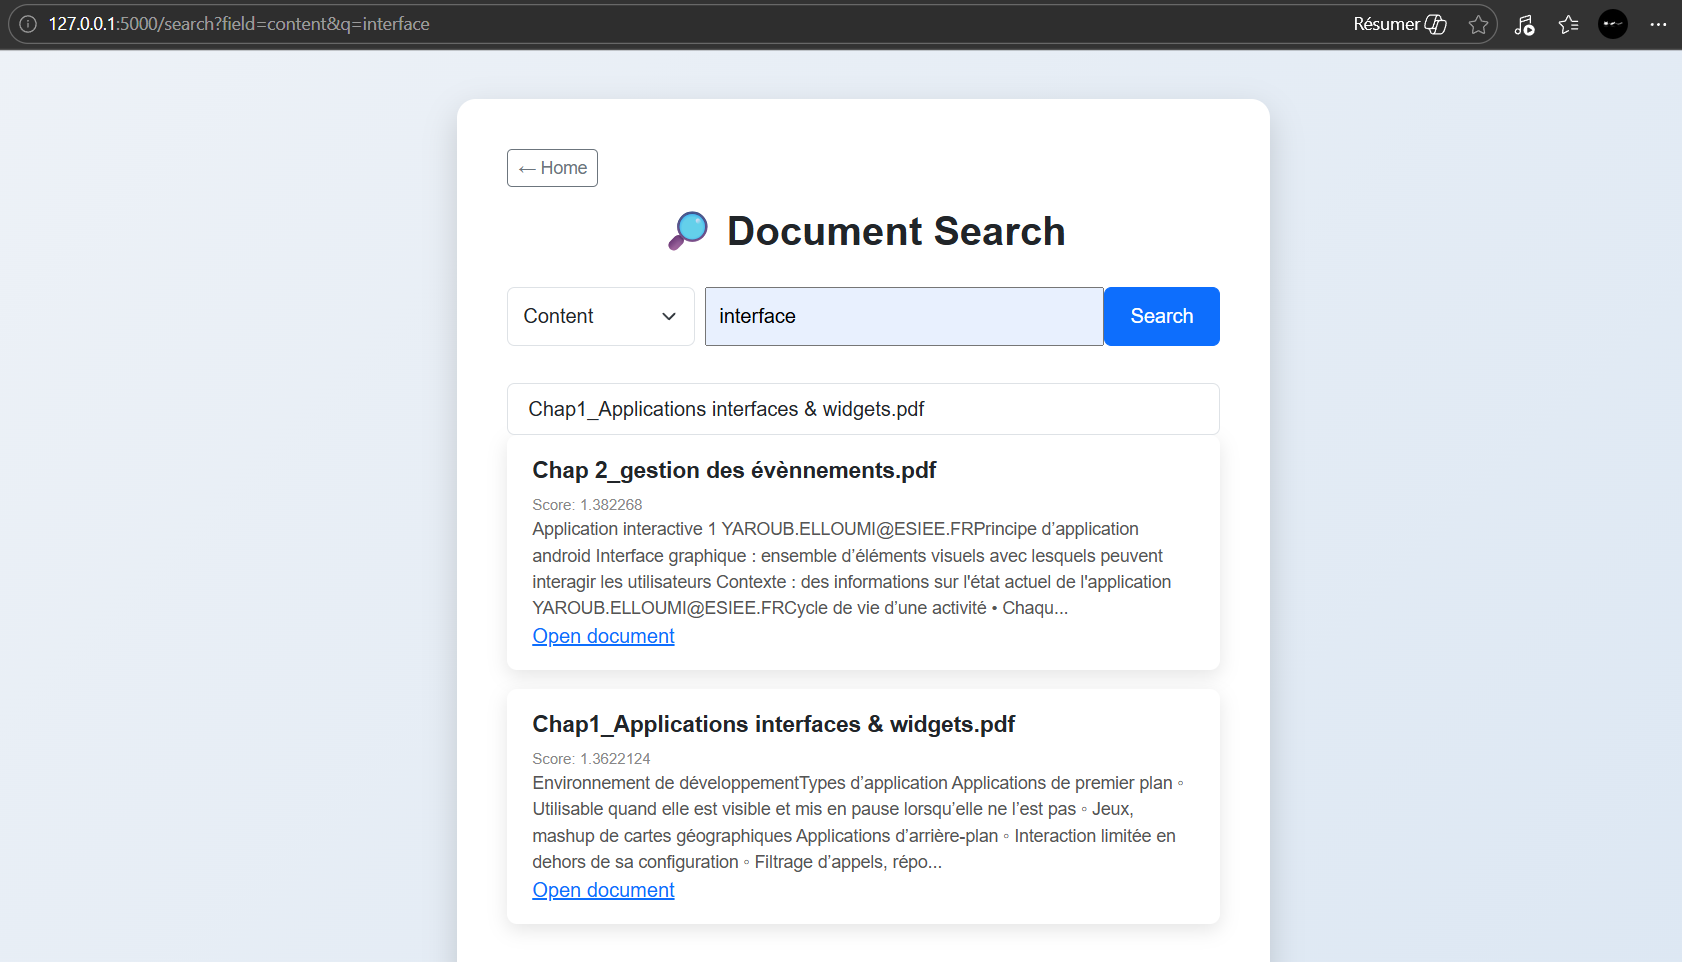
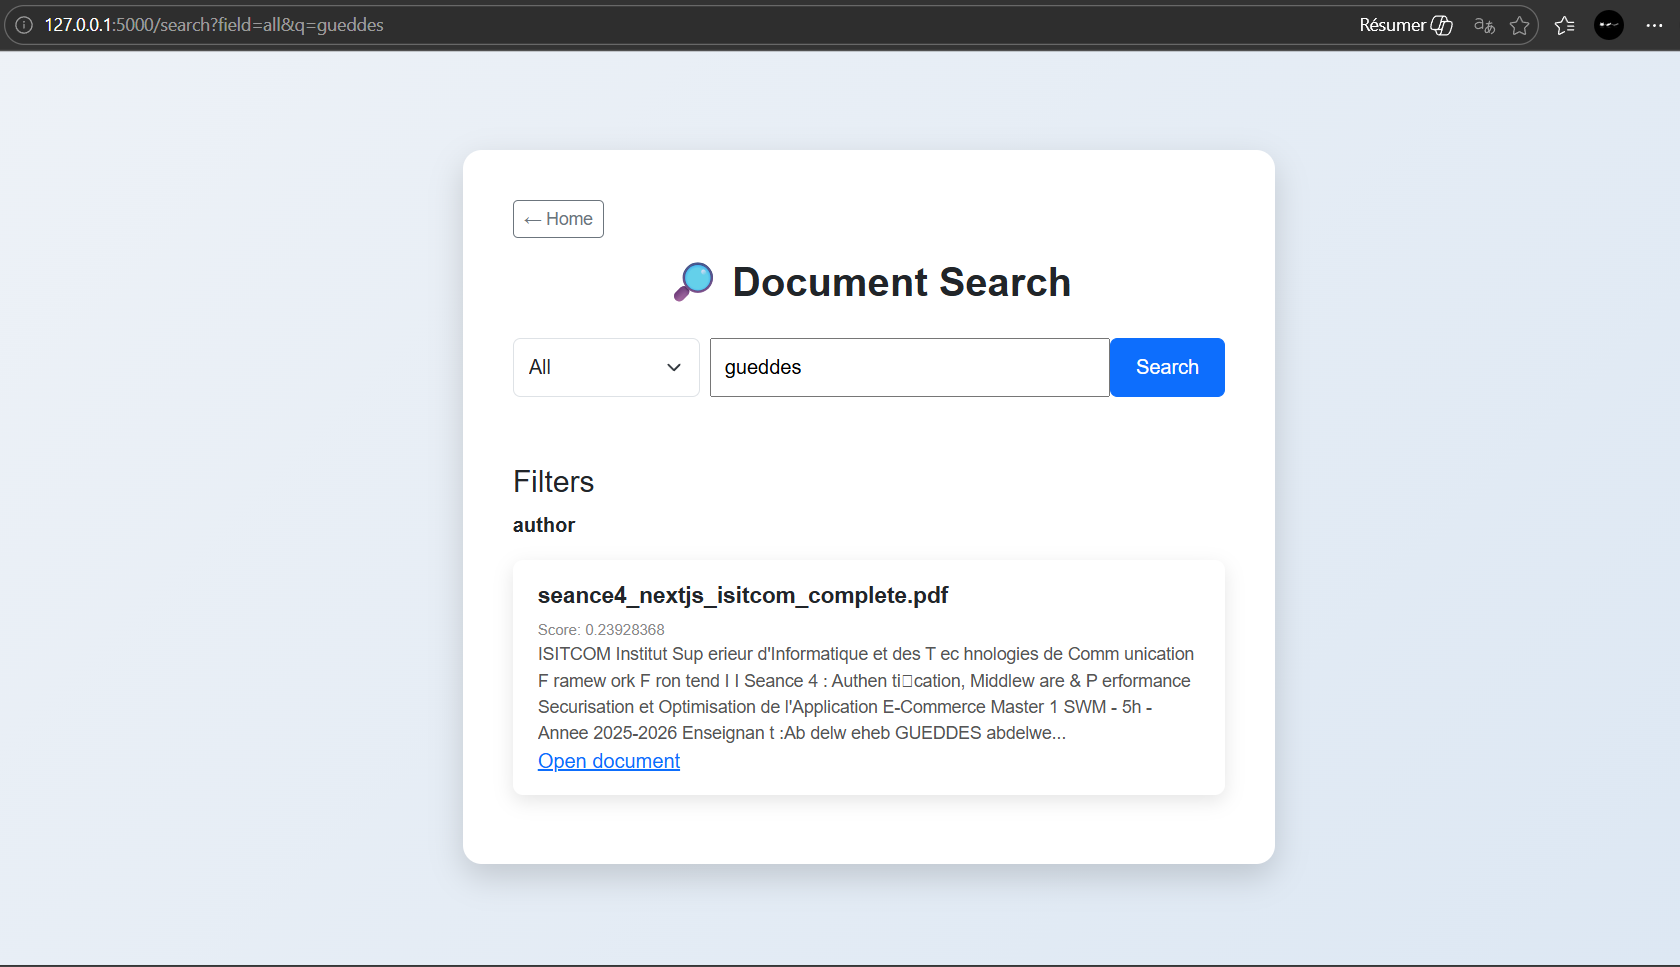
last commit

diff --git a/templates/search.html b/templates/search.html
@@ -89,6 +89,22 @@
         </form>
 
         <ul id="suggestions" class="list-group mt-2"></ul>
+        <h4 class="mt-4">Filters</h4>
+
+            {% for field, values in facets.items() %}
+                <div class="mb-3">
+                    <strong>{{ field }}</strong>
+                    <ul class="list-group">
+                        {% for item in values %}
+                            <li class="list-group-item">
+                                <a href="/search?q={{ request.args.get('q') }}&author={{ item.value }}">
+                                    {{ item.value }} ({{ item.count }})
+                                </a>
+                            </li>
+                        {% endfor %}
+                    </ul>
+                </div>
+            {% endfor %}
             
         {% if docs %}
             {% for doc in docs %}

diff --git a/app.py b/app.py
@@ -27,28 +27,23 @@ def index():
 @app.route("/upload", methods=["POST"]) #route reçoit le fichier envoyé par le formulaire
 
 def upload_file():
-    file = request.files["file"] #Flask récupère le fichier envoyé
+    file = request.files["file"]
 
     if file:
-        #Le fichier est sauvegardé dans :uploads/
         filepath = os.path.join(app.config["UPLOAD_FOLDER"], file.filename) 
         file.save(filepath)
 
-        text = extract_text(filepath) #fonction lit le contenu du document
+        text, author = extract_text(filepath) 
 
-        #crée un document avec 4 champs
         data = {
             "title": file.filename,
-            "author": "Admin", 
+            "author": author, 
             "content": text,
             "suggest": file.filename,
             "file_path": filepath
         }
 
-        #document est envoyé vers Solr
-        requests.post(SOLR_URL, json=data) 
-
-        #commit obligatoire (Solr indexe le document immédiatement)
+        requests.post(SOLR_URL, json=data)
         requests.get("http://localhost:8983/solr/documents/update?commit=true")
 
     return redirect("/")
@@ -57,7 +52,12 @@ def upload_file():
 # Extraction automatique
 def extract_text(filepath):
     parsed = parser.from_file(filepath)
-    return parsed["content"] or ""
+    content = parsed.get("content") or ""
+    metadata = parsed.get("metadata") or {}
+
+    author = metadata.get("author", "Unknown")
+
+    return content, author
 
 
 @app.route("/autocomplete")
@@ -78,26 +78,44 @@ def autocomplete():
 def search():
 
     query = request.args.get("q")
-    field = request.args.get("field")  
+    field = request.args.get("field", "all")
+    author_filter = request.args.get("author")
+
     docs = []
+    facets = {}
 
     if query:
 
         if field == "title":
-            q_param = f"title:{query}"
-        elif field == "content":
-            q_param = f"content:{query}"
+            solr_query = f"title:{query}"
         elif field == "author":
-            q_param = f"author:{query}"
+            solr_query = f"author:{query}"
+        elif field == "content":
+            solr_query = f"content:{query}"
         else:
-            q_param = f"title:{query}^2 OR content:{query}"
+            solr_query = f"title:{query} OR content:{query} OR author:{query}"
 
-        solr_url = f"http://localhost:8983/solr/documents/select?q={q_param}&fl=*,score&wt=json"
+        fq = ""
+        if author_filter:
+            fq = f"&fq=author:{author_filter}"
+
+        solr_url = f"http://localhost:8983/solr/documents/select?q={solr_query}&fl=*,score&facet=true&facet.field=author&wt=json{fq}"
 
         response = requests.get(solr_url).json()
+
         docs = response["response"]["docs"]
 
-    return render_template("search.html", docs=docs)
+        facet_data = response.get("facet_counts", {}).get("facet_fields", {})
+
+        for field_name, values in facet_data.items():
+            facets[field_name] = []
+            for i in range(0, len(values), 2):
+                facets[field_name].append({
+                    "value": values[i],
+                    "count": values[i+1]
+                })
+
+    return render_template("search.html", docs=docs, facets=facets)
 
 @app.route('/uploads/<filename>')
 def uploaded_file(filename):
